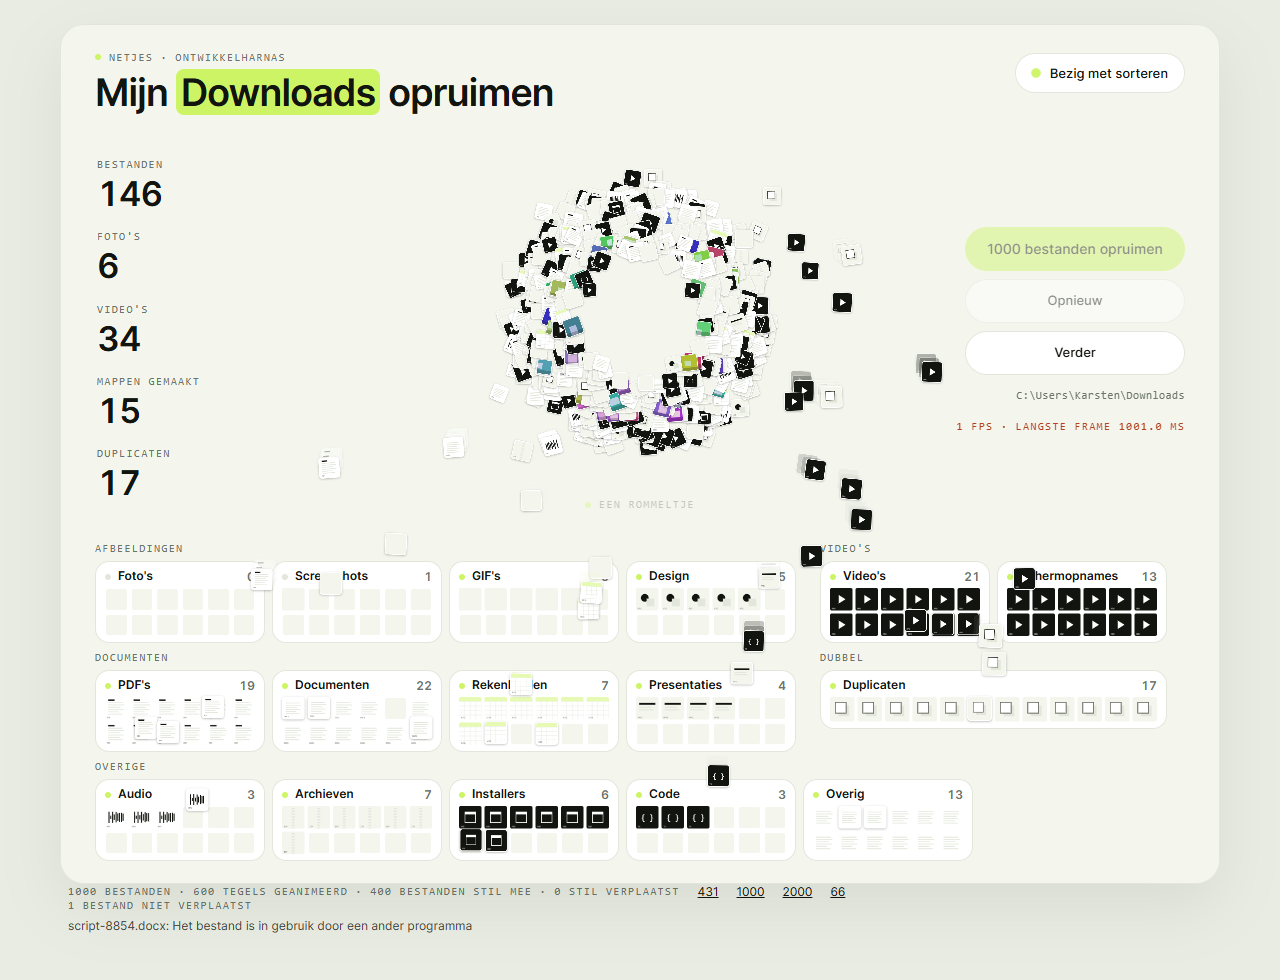
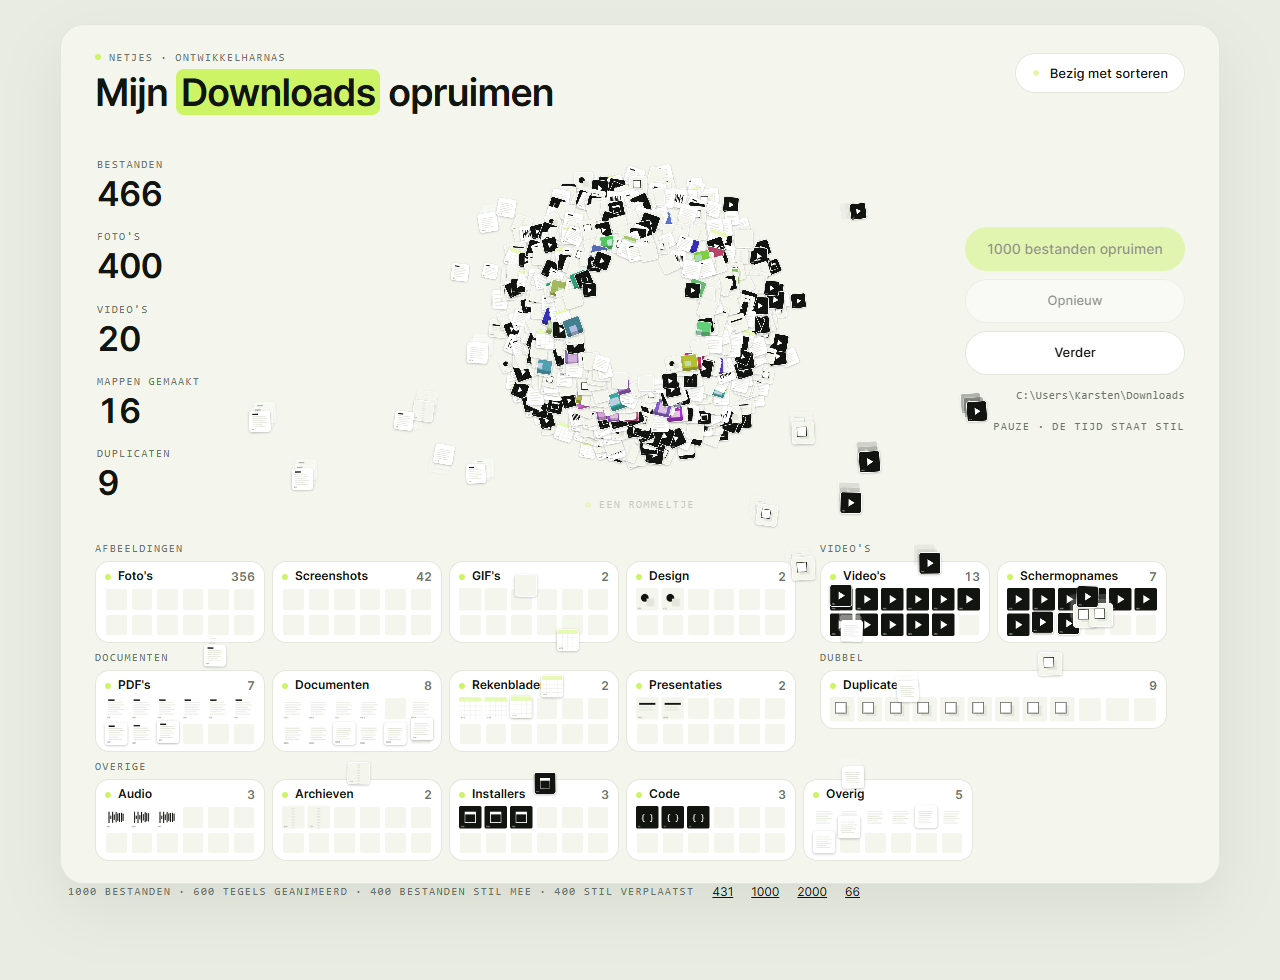
chore(dev): vluchtscreenshot opnieuw en pauzetekst in plaats van fps
In pauze toont het harnas "Pauze · de tijd staat stil" in plaats van een
fps-cijfer dat dan niets zegt. 03-vlucht.png is opnieuw gemaakt op een
vers browservenster, bevroren op 2 s na de klik met 1.000 bestanden.

diff --git a/src/dev/harness.tsx b/src/dev/harness.tsx
@@ -89,7 +89,7 @@ function fakeApi(failing: Set<number>, allIds: number[]) {
   };
 }
 
-function Fps() {
+function Fps({ paused }: { paused: boolean }) {
   const [text, setText] = useState("fps …");
   const [slow, setSlow] = useState(false);
   useEffect(() => {
@@ -115,6 +115,7 @@ function Fps() {
     raf = requestAnimationFrame(loop);
     return () => cancelAnimationFrame(raf);
   }, []);
+  if (paused) return <div className="mono fps">Pauze · de tijd staat stil</div>;
   return <div className={`mono fps${slow ? " slow" : ""}`}>{text}</div>;
 }
 
@@ -353,7 +354,7 @@ function Harness() {
             </button>
           )}
           <span className="mono path">{ROOT}</span>
-          <Fps />
+          <Fps paused={paused} />
         </div>
         <div className="cards">
           {ROWS.map((row, r) => (
